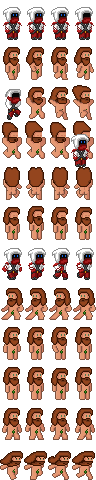
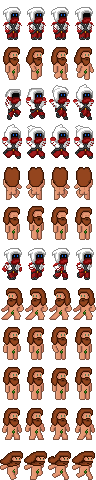
Added new jump and falling animations.

Changed region(s): [[0.0, 0.1562, 1.0, 0.375], [0.0625, 0.1875, 0.0938, 0.2188]]

diff --git a/Adam/PlayerCharacter/Player.cs b/Adam/PlayerCharacter/Player.cs
@@ -67,7 +67,7 @@ namespace Adam.PlayerCharacter
             _complexAnimation.AddAnimationData("duck",
                 new ComplexAnimData(156, fallStandTexture, new Rectangle(15, 7, 12, 66), 40, 45, 40, 125, 3, false));
             _complexAnimation.AddAnimationData("jump",
-                new ComplexAnimData(200, edenTexture, new Rectangle(6, 7, 12, 66), 80, 24, 40, 125, 4, false));
+                new ComplexAnimData(200, edenTexture, new Rectangle(6, 7, 12, 66), 80, 24, 40, 250, 4, false));
             _complexAnimation.AddAnimationData("climb",
                 new ComplexAnimData(900, edenTexture, new Rectangle(6, 7, 12, 66), 160, 24, 40, 75, 4, true));
             _complexAnimation.AddAnimationData("fall",

diff --git a/Adam/PlayerCharacter/PlayerScript.cs b/Adam/PlayerCharacter/PlayerScript.cs
@@ -103,7 +103,7 @@ namespace Adam
             {
                 player.IsJumping = true;
 
-                if (player.GetVelocity().Y > 10)
+                if (player.GetVelocity().Y > 6)
                     player.AddAnimationToQueue("fall");
             }
 
